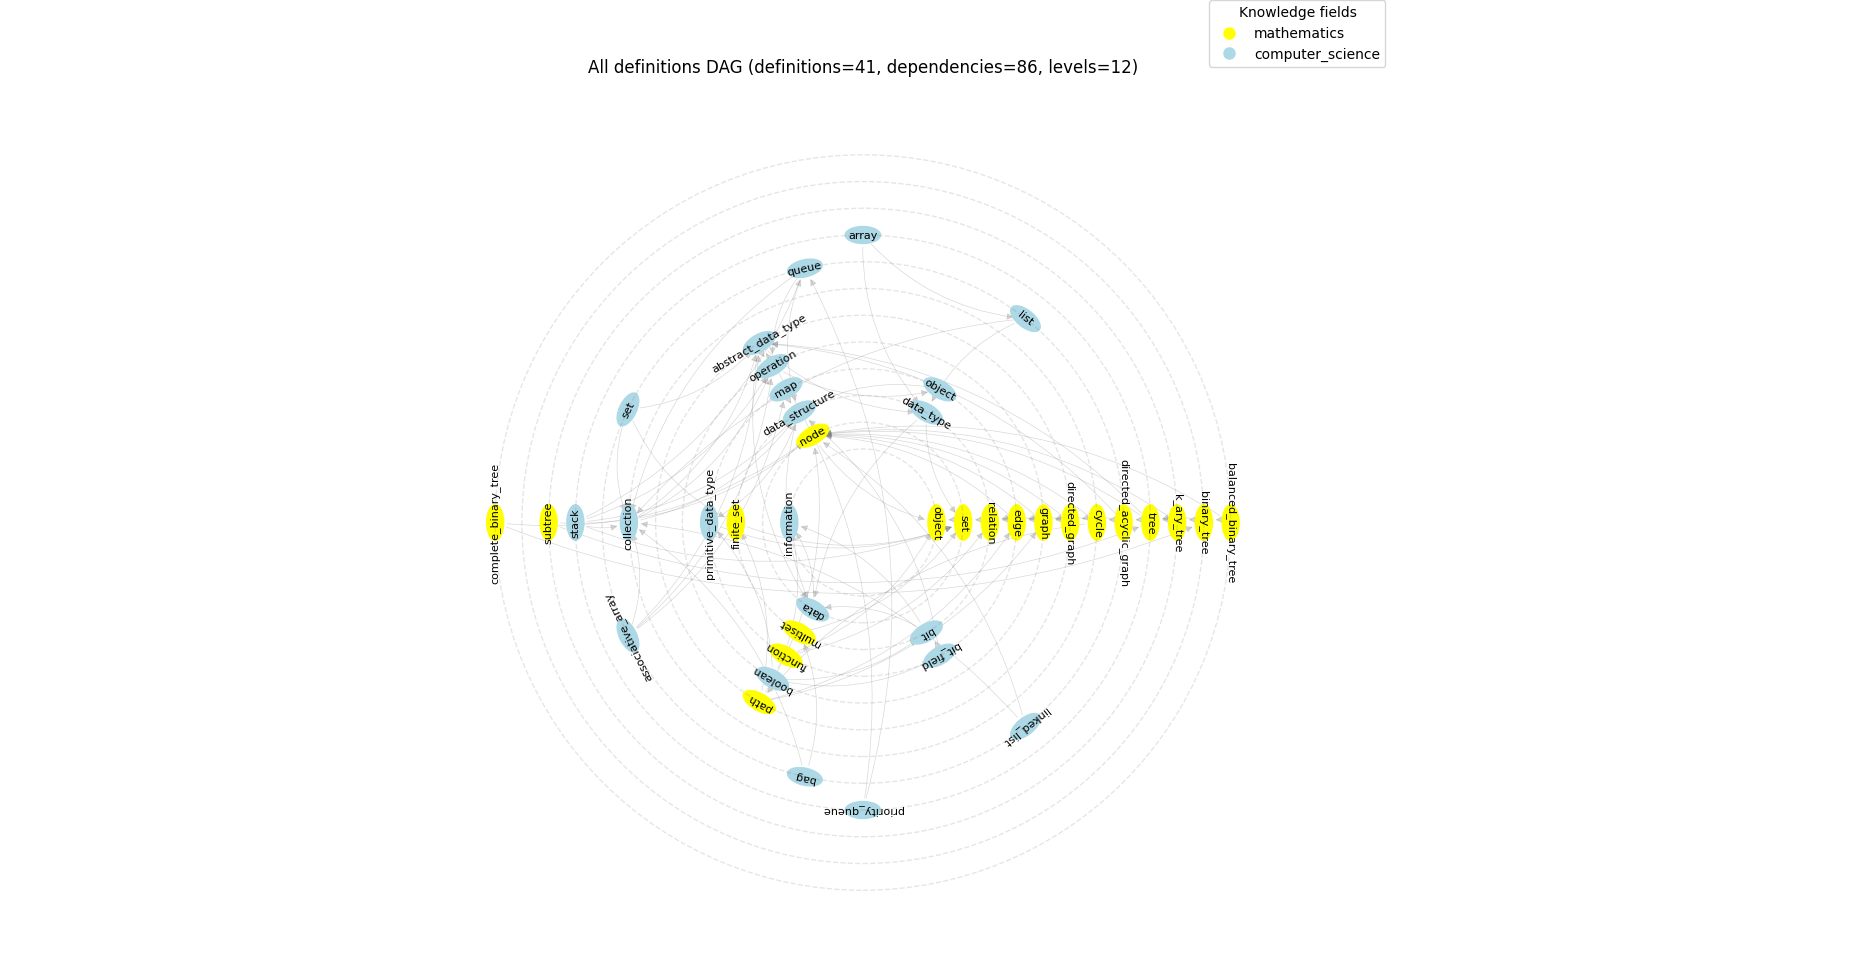
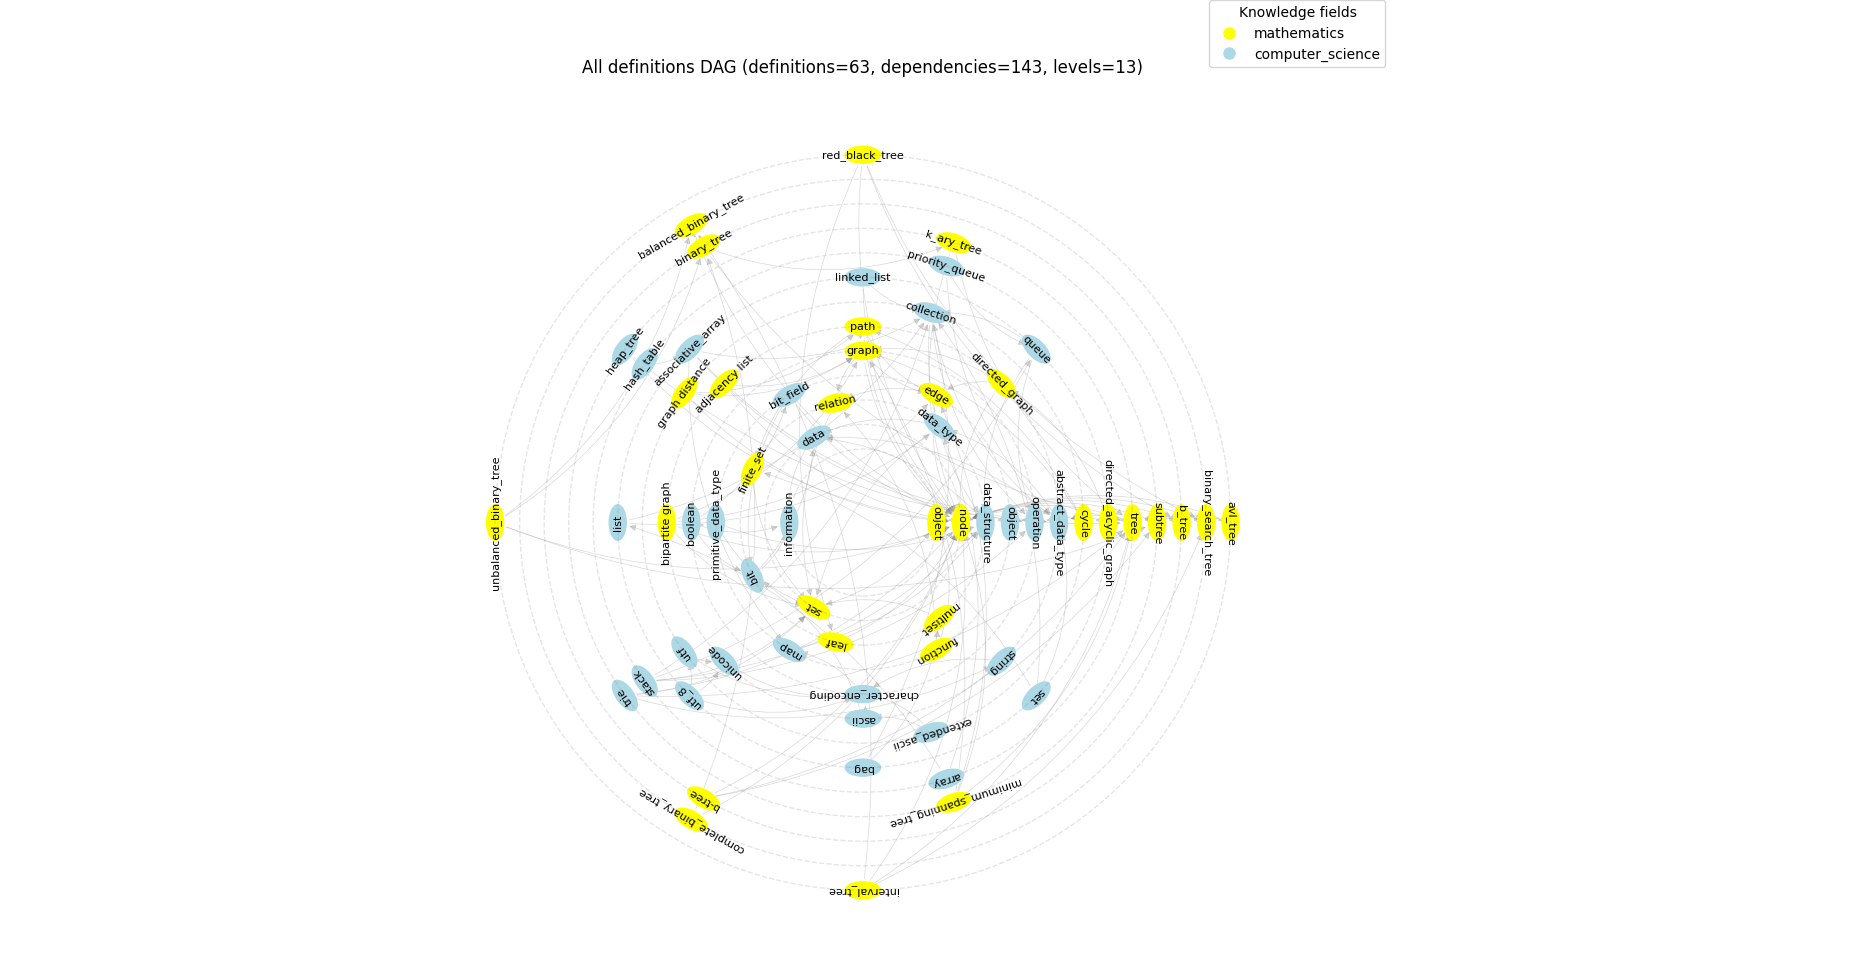
data structures finished

diff --git a/definit/visualization/dag/networkx.py b/definit/visualization/dag/networkx.py
@@ -1,3 +1,5 @@
+from typing import Any
+
 import matplotlib.pyplot as plt
 import networkx as nx
 import numpy as np
@@ -17,26 +19,11 @@ class DAGVisualizationNetworkX(DAGVisualizationAbstract):
         edges = [edge for edge in dag.edges]
         graph.add_edges_from(edges)
 
-        # Calculate level for each node based on maximum level of children
+        # Calculate level for each node
         levels = {}
 
-        def get_node_level(node):
-            if node in levels:
-                return levels[node]
-
-            children = list(graph.successors(node))
-            if not children:  # leaf node
-                levels[node] = 0
-                return 0
-
-            # Node's level is max level of children + 1
-            max_child_level = max(get_node_level(child) for child in children)
-            levels[node] = max_child_level + 1
-            return levels[node]
-
-        # Calculate levels for all nodes
         for node in graph.nodes():
-            get_node_level(node)
+            DAGVisualizationNetworkX.get_node_level(graph=graph, node=node, node_levels=levels)
 
         # Group nodes by level
         nodes_by_level = {}
@@ -152,19 +139,28 @@ class DAGVisualizationNetworkX(DAGVisualizationAbstract):
         no_levels = 0
         no_nodes = 0
         # calculate positions
-        for layer, nodes in enumerate(reversed(tuple(nx.topological_generations(graph)))):
+        levels = {}
+
+        for node in graph.nodes():
+            level = DAGVisualizationNetworkX.get_node_level(graph=graph, node=node, node_levels=levels)
             # `multipartite_layout` expects the layer as a node attribute, so add the
             # numeric layer value as a node attribute
-            for node in nodes:
-                graph.nodes[node]["layer"] = layer
-
-            no_levels += 1
-            no_nodes += len(nodes)
+            graph.nodes[node]["layer"] = level
+            no_levels = max(no_levels, level + 1)  # +1 because levels are 0-indexed
+            no_nodes += 1
 
         pos = nx.multipartite_layout(graph, subset_key="layer", align="horizontal")
         fig, ax = plt.subplots(figsize=(8, 6))
         nx.draw_networkx_edges(graph, pos, ax=ax, arrows=False)
 
+        # Get unique y-coordinates representing each level
+        y_levels = sorted(set(y for _, y in pos.values()))
+
+        # Draw horizontal level lines
+        for y in y_levels:
+            ax.axhline(y=y, color="gray", linestyle="--", alpha=0.2)
+
+        # Draw nodes
         handles = []
         labels = []
         node_to_position: dict[Definition, tuple[float, float]] = {node: position for node, position in pos.items()}
@@ -200,3 +196,21 @@ class DAGVisualizationNetworkX(DAGVisualizationAbstract):
         ax.legend(handles=handles, labels=labels, title="Knowledge fields", loc="upper right")
         fig.tight_layout()
         plt.show()
+
+    @staticmethod
+    def get_node_level(graph: nx.DiGraph, node: Any, node_levels: dict[Any, int]) -> int:
+        if node in node_levels:
+            return node_levels[node]
+
+        children = list(graph.successors(node))
+        if not children:  # leaf node
+            node_levels[node] = 0
+            return 0
+
+        # Node's level is max level of children + 1
+        max_child_level = max(
+            DAGVisualizationNetworkX.get_node_level(graph=graph, node=child, node_levels=node_levels)
+            for child in children
+        )
+        node_levels[node] = max_child_level + 1
+        return node_levels[node]

diff --git a/definit/test/data_parser/test_data_parser_md.py b/definit/test/data_parser/test_data_parser_md.py
@@ -13,7 +13,7 @@ class TestDataParserMD:
         dag = data_parser.get_dag(definition=definition_list)
         # Then
         assert dag is not None
-        assert len([edge for edge in dag.edges]) == 13
+        assert len([edge for edge in dag.edges]) == 15
 
     def test_parse_all_definitions(self) -> None:
         # Given
@@ -22,5 +22,5 @@ class TestDataParserMD:
         index = data_parser.get_index()
         # Then
         assert index is not None
-        assert len(index) == 41
+        assert len(index) == 62
         [data_parser.get_dag(definition=definition) for definition in index]

diff --git a/definit/test/visualization/test_networkx.py b/definit/test/visualization/test_networkx.py
@@ -11,7 +11,7 @@ class TestNetworkx:
     @pytest.mark.skip("manual test")
     def test_selected_definition(self) -> None:
         # Given
-        definition = Definition(name="stack", field=Field.COMPUTER_SCIENCE)
+        definition = Definition(name="trie", field=Field.COMPUTER_SCIENCE)
         data_parser = DataParserMd(data_md_path=CONST.PACKAGE_ROOT_DIR.parent / "data_md")
         dag = data_parser.get_dag(definition=definition)
         dag_visualization = DAGVisualizationNetworkX()

diff --git a/data_md/mathematics/index.md b/data_md/mathematics/index.md
@@ -9,11 +9,22 @@
 - [edge](./definitions/graph/edge.md)
 - [path](./definitions/graph/path.md)
 - [cycle](./definitions/graph/cycle.md)
+- [graph distance](./definitions/graph/graph_distance.md)
+- [adjacency list](./definitions/graph/adjacency_list.md)
+- [bipartite graph](./definitions/graph/bipartite_graph.md)
 - [directed_graph](./definitions/graph/directed_graph.md)
 - [directed_acyclic_graph](./definitions/graph/directed_acyclic_graph.md)
 - [tree](./definitions/graph/tree/tree.md)
+- [leaf](./definitions/graph/tree/leaf.md)
 - [subtree](./definitions/graph/tree/subtree.md)
+- [minimum_spanning_tree](./definitions/graph/tree/minimum_spanning_tree.md)
 - [k_ary_tree](./definitions/graph/tree/k_ary_tree.md)
 - [binary_tree](./definitions/graph/tree/binary_tree.md)
 - [balanced_binary_tree](./definitions/graph/tree/balanced_binary_tree.md)
+- [unbalanced_binary_tree](./definitions/graph/tree/unbalanced_binary_tree.md)
 - [complete_binary_tree](./definitions/graph/tree/complete_binary_tree.md)
+- [b-tree](./definitions/graph/tree/b_tree.md)
+- [binary_search_tree](./definitions/graph/tree/binary_search_tree.md)
+- [interval_tree](./definitions/graph/tree/interval_tree.md)
+- [avl_tree](./definitions/graph/tree/avl_tree.md)
+- [red_black_tree](./definitions/graph/tree/red_black_tree.md)

diff --git a/data_md/computer_science/index.md b/data_md/computer_science/index.md
@@ -17,6 +17,16 @@
 - [priority_queue](./definitions/data_structure/collection/priority_queue.md)
 - [bag](./definitions/data_structure/collection/bag.md)
 - [set](./definitions/data_structure/collection/set.md)
+- [heap_tree](./definitions/data_structure/collection/heap_tree.md)
 - [array](./definitions/data_structure/collection/list/array.md)
 - [linked_list](./definitions/data_structure/collection/list/linked_list.md)
 - [associative_array](./definitions/data_structure/collection/associative_array.md)
+- [hash_table](./definitions/data_structure/collection/hash_table.md)
+- [character_encoding](./definitions/data_structure/collection/string/character_encoding.md)
+- [utf](./definitions/data_structure/collection/string/utf.md)
+- [utf_8](./definitions/data_structure/collection/string/utf_8.md)
+- [string](./definitions/data_structure/collection/string/string.md)
+- [unicode](./definitions/data_structure/collection/string/unicode.md)
+- [ascii](./definitions/data_structure/collection/string/ascii.md)
+- [extended_ascii](./definitions/data_structure/collection/string/extended_ascii.md)
+- [trie](./definitions/data_structure/collection/trie.md)

diff --git a/data_md/mathematics/definitions/graph/tree/red_black_tree.md b/data_md/mathematics/definitions/graph/tree/red_black_tree.md
@@ -1,0 +1,11 @@
+# red_black_tree
+
+A type of [self-balancing](/data_md/mathematics/definitions/graph/tree/b_tree.md) [binary search tree](/data_md/mathematics/definitions/graph/tree/binary_search_tree.md). The red-black tree is named after the colors used to represent the [nodes](/data_md/mathematics/definitions/graph/node.md). The tree maintains certain properties to ensure that it remains approximately balanced, allowing for efficient search, insertion, and deletion operations. The properties include:
+
+1. Each node is either red or black.
+2. The root node is always black.
+3. All [leaves](/data_md/mathematics/definitions/graph/tree/leaf.md) are black.
+4. If a red node has children, then both children are black.
+5. Every path from a node to its descendant leaves has the same number of black nodes.
+
+These properties ensure that the tree remains approximately balanced, allowing for efficient search, insertion, and deletion operations.

diff --git a/README.md b/README.md
@@ -59,10 +59,10 @@ Keeping the DAG structure enforce us to build a definition on top of the more ge
 It makes it clear how specific is the concept of our interest. 
 Going down in the hierarchy we reach a low level definitions that are more general and fundamental. 
 Climping up on the DAG we learn more specific, high level concepts 
-(see 'stack' dependencies DAG on Figure 1. as an example).
+(see 'trie' dependencies DAG on Figure 1. as an example).
 
-!['stack' dependencies DAG](./dag_stack.png)  
-Figure 1. 'stack' dependencies DAG.
+!['trie' dependencies DAG](./dag_trie.png)  
+Figure 1. 'trie' dependencies DAG.
 
 The DAG is going to be precise and well arranged knowledge representation. 
 It can be used by humans for example to learn a new field of knowledge.

diff --git a/data_md/mathematics/definitions/graph/tree/interval_tree.md b/data_md/mathematics/definitions/graph/tree/interval_tree.md
@@ -1,0 +1,3 @@
+# interval_tree
+
+A type of [binary search tree](/data_md/mathematics/definitions/graph/tree/binary_search_tree.md) that stores intervals as its keys. Each [node](/data_md/mathematics/definitions/graph/node.md) in the interval tree represents an interval, and the tree is structured in such a way that it allows for efficient searching of all intervals that overlap with a given interval or point. The intervals are typically represented by their start and end points, and the [tree](/data_md/mathematics/definitions/graph/tree/tree.md) is [balanced](/data_md/mathematics/definitions/graph/tree/balanced_binary_tree.md) to ensure efficient search operations.

diff --git a/data_md/computer_science/definitions/data_structure/collection/trie.md b/data_md/computer_science/definitions/data_structure/collection/trie.md
@@ -1,0 +1,3 @@
+# trie
+
+A type of [tree](/data_md/mathematics/definitions/graph/tree/tree.md) data structure that is used to store a dynamic [set](/data_md/mathematics/definitions/foundamental/set.md) of strings, where the keys are usually strings. Each [node](/data_md/mathematics/definitions/graph/node.md) in the trie represents a single character of a [string](/data_md/computer_science/definitions/data_structure/collection/string/string.md), and the path from the root to a node represents a prefix of the string. The main advantage of using a trie is that it allows for efficient retrieval of strings with common prefixes.

diff --git a/data_md/mathematics/definitions/graph/tree/avl_tree.md b/data_md/mathematics/definitions/graph/tree/avl_tree.md
@@ -1,0 +1,3 @@
+# avl_tree
+
+A type of [self-balancing](/data_md/mathematics/definitions/graph/tree/b_tree.md) [binary search tree](/data_md/mathematics/definitions/graph/tree/binary_search_tree.md) where the difference in heights between the left and right [subtrees](/data_md/mathematics/definitions/graph/tree/subtree.md) of any [node](/data_md/mathematics/definitions/graph/node.md) is at most one. This property ensures that the tree remains approximately balanced, allowing for efficient search, insertion, and deletion operations. The AVL tree is named after its inventors, Georgy Adelson-Velsky and Evgenii Landis.

diff --git a/data_md/mathematics/definitions/graph/tree/b_tree.md b/data_md/mathematics/definitions/graph/tree/b_tree.md
@@ -1,0 +1,3 @@
+# b_tree
+
+A self-balancing [tree](/data_md/mathematics/definitions/graph/tree/tree.md) data structure in which each [node](/data_md/mathematics/definitions/graph/node.md) has a value, and for each node, the values of all nodes in its left [subtree](/data_md/mathematics/definitions/graph/tree/subtree.md) are less than its own value, and the values of all nodes in its right subtree are greater than its own value. This property allows for efficient searching, insertion, and deletion operations.

diff --git a/data_md/mathematics/definitions/graph/tree/minimum_spanning_tree.md b/data_md/mathematics/definitions/graph/tree/minimum_spanning_tree.md
@@ -1,0 +1,3 @@
+# minimum_spanning_tree
+
+A [tree](/data_md/mathematics/definitions/graph/tree/tree.md) that connects all the [nodes](/data_md/mathematics/definitions/graph/node.md) in a [graph](/data_md/mathematics/definitions/graph/graph.md) with the minimum possible total [edge](/data_md/mathematics/definitions/graph/edge.md) weight. In other words, it is a subset of the edges of the graph that forms a tree and includes every node, such that the sum of the weights of the edges is minimized.
